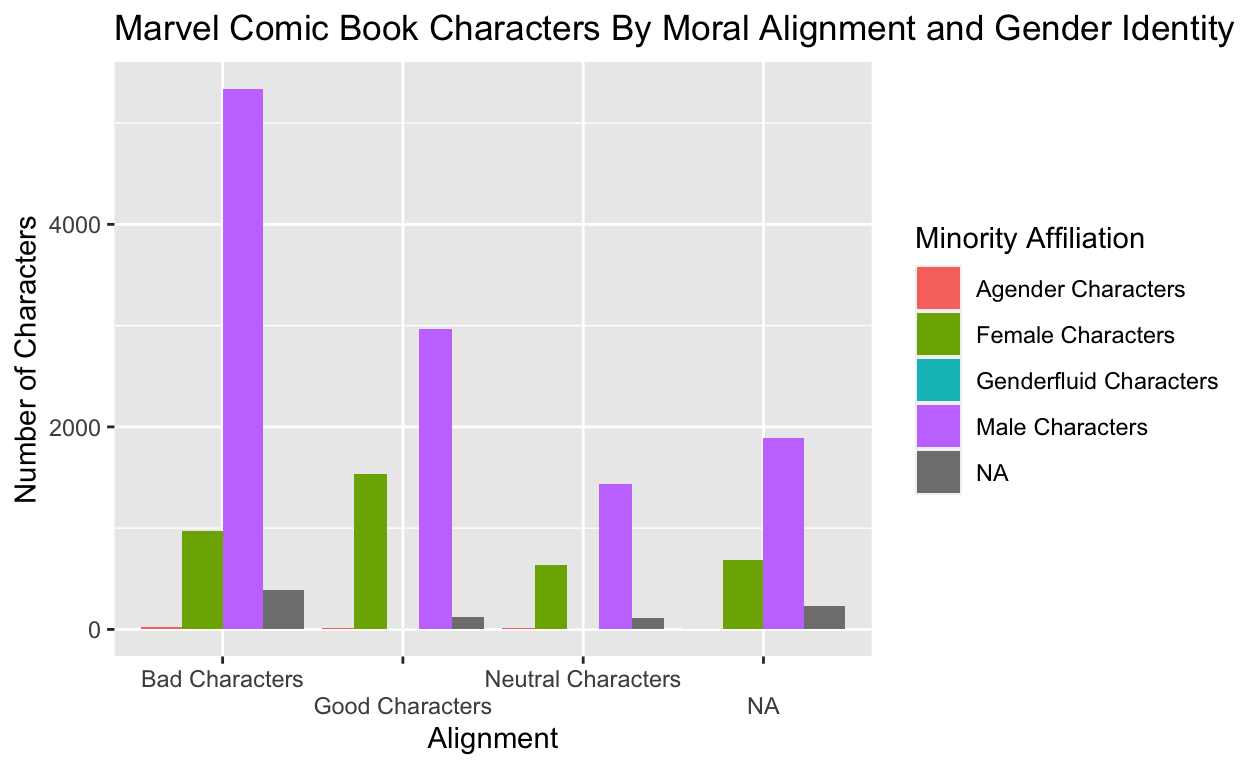
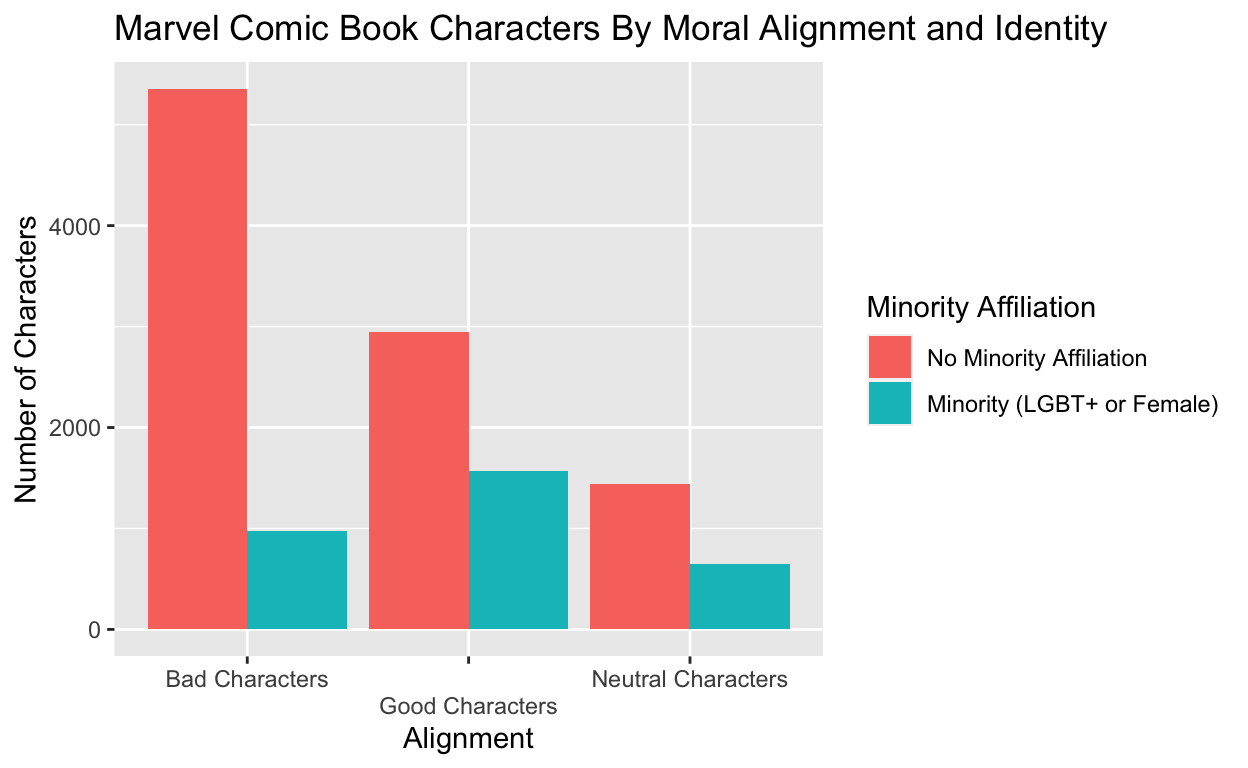
slay

diff --git a/index.html b/index.html
@@ -115,7 +115,7 @@ code span.wa { color: #5e5e5e; font-style: italic; } /* Warning */
   <!--/radix_placeholder_rmarkdown_metadata-->
   
   <script type="text/json" id="radix-resource-manifest">
-  {"type":"character","attributes":{},"value":["data/marvel-wikia-data.csv","index_files/anchor-4.2.2/anchor.min.js","index_files/bowser-1.9.3/bowser.min.js","index_files/distill-2.2.21/template.v2.js","index_files/figure-html5/unnamed-chunk-10-1.png","index_files/figure-html5/unnamed-chunk-11-1.png","index_files/figure-html5/unnamed-chunk-12-1.png","index_files/figure-html5/unnamed-chunk-13-1.png","index_files/figure-html5/unnamed-chunk-2-1.png","index_files/figure-html5/unnamed-chunk-3-1.png","index_files/figure-html5/unnamed-chunk-4-1.png","index_files/figure-html5/unnamed-chunk-5-1.png","index_files/figure-html5/unnamed-chunk-6-1.png","index_files/header-attrs-2.17/header-attrs.js","index_files/header-attrs-2.24/header-attrs.js","index_files/jquery-3.6.0/jquery-3.6.0.js","index_files/jquery-3.6.0/jquery-3.6.0.min.js","index_files/jquery-3.6.0/jquery-3.6.0.min.map","index_files/kePrint-0.0.1/kePrint.js","index_files/lightable-0.0.1/lightable.css","index_files/popper-2.6.0/popper.min.js","index_files/tippy-6.2.7/tippy-bundle.umd.min.js","index_files/tippy-6.2.7/tippy-light-border.css","index_files/tippy-6.2.7/tippy.css","index_files/tippy-6.2.7/tippy.umd.min.js","index_files/webcomponents-2.0.0/webcomponents.js"]}
+  {"type":"character","attributes":{},"value":["data/marvel-wikia-data.csv","index_files/anchor-4.2.2/anchor.min.js","index_files/bowser-1.9.3/bowser.min.js","index_files/distill-2.2.21/template.v2.js","index_files/figure-html5/unnamed-chunk-10-1.png","index_files/figure-html5/unnamed-chunk-11-1.png","index_files/figure-html5/unnamed-chunk-12-1.png","index_files/figure-html5/unnamed-chunk-13-1.png","index_files/figure-html5/unnamed-chunk-14-1.png","index_files/figure-html5/unnamed-chunk-2-1.png","index_files/figure-html5/unnamed-chunk-3-1.png","index_files/figure-html5/unnamed-chunk-4-1.png","index_files/figure-html5/unnamed-chunk-5-1.png","index_files/figure-html5/unnamed-chunk-6-1.png","index_files/header-attrs-2.17/header-attrs.js","index_files/header-attrs-2.24/header-attrs.js","index_files/jquery-3.6.0/jquery-3.6.0.js","index_files/jquery-3.6.0/jquery-3.6.0.min.js","index_files/jquery-3.6.0/jquery-3.6.0.min.map","index_files/kePrint-0.0.1/kePrint.js","index_files/lightable-0.0.1/lightable.css","index_files/popper-2.6.0/popper.min.js","index_files/tippy-6.2.7/tippy-bundle.umd.min.js","index_files/tippy-6.2.7/tippy-light-border.css","index_files/tippy-6.2.7/tippy.css","index_files/tippy-6.2.7/tippy.umd.min.js","index_files/webcomponents-2.0.0/webcomponents.js"]}
   </script>
   <!--radix_placeholder_navigation_in_header-->
   <!--/radix_placeholder_navigation_in_header-->
@@ -1551,6 +1551,23 @@ code span.wa { color: #5e5e5e; font-style: italic; } /* Warning */
 <p>Of these, the identifiers I was most interested in were their gender, identity as a member of the LGBT+ community, and alignment. For this study, gender and LGBT+ identity were the independent variables. I created a binary variable called female_characters to represent whether characters were female (1) or not (0), and an additional binary variable called lgbt_character to represent whether characters were LGBT+ (1) or not (0). Alignment on a scale of 0-2 (bad [0], neutral [1], or good [2]) was the dependent variable, represented by the variable align_value. My research design was cross-sectional, in that I was essentially comparing the moral alignment of LGBT+ and female characters (these were my “treatment” groups”) to the moral alignment of straight/cis and male characters (my “control” groups) based on a single snapshot in time.</p>
 <div class="layout-chunk" data-layout="l-body">
 <div class="sourceCode">
+<pre class="sourceCode r"><code class="sourceCode r"><span><span class='va'>align_graph</span> <span class='op'>&lt;-</span> <span class='va'>data2</span> <span class='op'>|&gt;</span></span>
+<span>  <span class='fu'><a href='https://tidyr.tidyverse.org/reference/drop_na.html'>drop_na</a></span><span class='op'>(</span><span class='va'>ALIGN</span><span class='op'>)</span> <span class='op'>|&gt;</span></span>
+<span>  <span class='fu'><a href='https://dplyr.tidyverse.org/reference/group_by.html'>group_by</a></span><span class='op'>(</span><span class='va'>ALIGN</span><span class='op'>)</span> <span class='op'>|&gt;</span></span>
+<span>  <span class='fu'><a href='https://dplyr.tidyverse.org/reference/summarise.html'>summarize</a></span><span class='op'>(</span>n <span class='op'>=</span> <span class='fu'><a href='https://dplyr.tidyverse.org/reference/context.html'>n</a></span><span class='op'>(</span><span class='op'>)</span><span class='op'>)</span> <span class='op'>|&gt;</span></span>
+<span>  <span class='fu'><a href='https://ggplot2.tidyverse.org/reference/ggplot.html'>ggplot</a></span><span class='op'>(</span>mapping <span class='op'>=</span> <span class='fu'><a href='https://ggplot2.tidyverse.org/reference/aes.html'>aes</a></span><span class='op'>(</span>x <span class='op'>=</span> <span class='va'>ALIGN</span>, y <span class='op'>=</span> <span class='va'>n</span><span class='op'>)</span><span class='op'>)</span> <span class='op'>+</span></span>
+<span>  <span class='fu'><a href='https://ggplot2.tidyverse.org/reference/geom_bar.html'>geom_col</a></span><span class='op'>(</span><span class='fu'><a href='https://ggplot2.tidyverse.org/reference/aes.html'>aes</a></span><span class='op'>(</span>fill <span class='op'>=</span> <span class='va'>ALIGN</span>, position <span class='op'>=</span> <span class='st'>"dodge"</span><span class='op'>)</span><span class='op'>)</span> <span class='op'>+</span></span>
+<span>  <span class='fu'><a href='https://ggplot2.tidyverse.org/reference/labs.html'>labs</a></span><span class='op'>(</span>title <span class='op'>=</span> <span class='st'>"Marvel Comic Book Characters By Moral Alignment"</span>,</span>
+<span>       x <span class='op'>=</span> <span class='st'>"Alignment"</span>,</span>
+<span>       y <span class='op'>=</span> <span class='st'>"Number of Characters"</span><span class='op'>)</span> <span class='op'>+</span></span>
+<span>  <span class='fu'><a href='https://ggplot2.tidyverse.org/reference/scale_colour_discrete.html'>scale_fill_discrete</a></span><span class='op'>(</span>name <span class='op'>=</span> <span class='st'>"Alignment"</span><span class='op'>)</span></span>
+<span></span>
+<span><span class='va'>align_graph</span></span></code></pre>
+</div>
+<p><img src="index_files/figure-html5/unnamed-chunk-2-1.png" width="624" /></p>
+</div>
+<div class="layout-chunk" data-layout="l-body">
+<div class="sourceCode">
 <pre class="sourceCode r"><code class="sourceCode r"><span><span class='va'>data2</span> <span class='op'>&lt;-</span> <span class='va'>data2</span> <span class='op'>|&gt;</span></span>
 <span>  <span class='fu'><a href='https://dplyr.tidyverse.org/reference/mutate.html'>mutate</a></span><span class='op'>(</span>lgbt_character <span class='op'>=</span> <span class='fu'><a href='https://dplyr.tidyverse.org/reference/case_when.html'>case_when</a></span><span class='op'>(</span><span class='va'>GSM</span> <span class='op'>==</span> <span class='st'>"Bisexual Characters"</span> <span class='op'>~</span> <span class='fl'>1</span>,</span>
 <span>                                    <span class='va'>GSM</span> <span class='op'>==</span> <span class='st'>"Homosexual Characters"</span> <span class='op'>~</span> <span class='fl'>1</span>,</span>
@@ -1561,6 +1578,7 @@ code span.wa { color: #5e5e5e; font-style: italic; } /* Warning */
 <span>         minority_character <span class='op'>=</span> <span class='op'>(</span><span class='va'>female_character</span> <span class='op'>==</span> <span class='fl'>1</span> <span class='op'>|</span> <span class='va'>lgbt_character</span> <span class='op'>==</span> <span class='fl'>1</span><span class='op'>)</span><span class='op'>)</span></span>
 <span></span>
 <span><span class='va'>minority_graph</span> <span class='op'>&lt;-</span> <span class='va'>data2</span> <span class='op'>|&gt;</span></span>
+<span>  <span class='fu'><a href='https://tidyr.tidyverse.org/reference/drop_na.html'>drop_na</a></span><span class='op'>(</span><span class='va'>ALIGN</span>, <span class='va'>minority_character</span><span class='op'>)</span> <span class='op'>|&gt;</span></span>
 <span>  <span class='fu'><a href='https://dplyr.tidyverse.org/reference/group_by.html'>group_by</a></span><span class='op'>(</span><span class='va'>ALIGN</span>, <span class='va'>minority_character</span><span class='op'>)</span> <span class='op'>|&gt;</span></span>
 <span>  <span class='fu'><a href='https://dplyr.tidyverse.org/reference/summarise.html'>summarize</a></span><span class='op'>(</span>n <span class='op'>=</span> <span class='fu'><a href='https://dplyr.tidyverse.org/reference/context.html'>n</a></span><span class='op'>(</span><span class='op'>)</span><span class='op'>)</span> <span class='op'>|&gt;</span></span>
 <span>  <span class='fu'><a href='https://ggplot2.tidyverse.org/reference/ggplot.html'>ggplot</a></span><span class='op'>(</span>mapping <span class='op'>=</span> <span class='fu'><a href='https://ggplot2.tidyverse.org/reference/aes.html'>aes</a></span><span class='op'>(</span>x <span class='op'>=</span> <span class='va'>ALIGN</span>, y <span class='op'>=</span> <span class='va'>n</span><span class='op'>)</span><span class='op'>)</span> <span class='op'>+</span></span>
@@ -1574,11 +1592,12 @@ code span.wa { color: #5e5e5e; font-style: italic; } /* Warning */
 <span></span>
 <span><span class='va'>minority_graph</span></span></code></pre>
 </div>
-<p><img src="index_files/figure-html5/unnamed-chunk-2-1.png" width="624" /></p>
+<p><img src="index_files/figure-html5/unnamed-chunk-3-1.png" width="624" /></p>
 </div>
 <div class="layout-chunk" data-layout="l-body">
 <div class="sourceCode">
 <pre class="sourceCode r"><code class="sourceCode r"><span><span class='va'>female_graph</span> <span class='op'>&lt;-</span> <span class='va'>data2</span> <span class='op'>|&gt;</span></span>
+<span>  <span class='fu'><a href='https://tidyr.tidyverse.org/reference/drop_na.html'>drop_na</a></span><span class='op'>(</span><span class='va'>ALIGN</span>, <span class='va'>female_character</span><span class='op'>)</span> <span class='op'>|&gt;</span></span>
 <span>  <span class='fu'><a href='https://dplyr.tidyverse.org/reference/group_by.html'>group_by</a></span><span class='op'>(</span><span class='va'>ALIGN</span>, <span class='va'>SEX</span><span class='op'>)</span> <span class='op'>|&gt;</span></span>
 <span>  <span class='fu'><a href='https://dplyr.tidyverse.org/reference/summarise.html'>summarize</a></span><span class='op'>(</span>n <span class='op'>=</span> <span class='fu'><a href='https://dplyr.tidyverse.org/reference/context.html'>n</a></span><span class='op'>(</span><span class='op'>)</span><span class='op'>)</span> <span class='op'>|&gt;</span></span>
 <span>  <span class='fu'><a href='https://ggplot2.tidyverse.org/reference/ggplot.html'>ggplot</a></span><span class='op'>(</span>mapping <span class='op'>=</span> <span class='fu'><a href='https://ggplot2.tidyverse.org/reference/aes.html'>aes</a></span><span class='op'>(</span>x <span class='op'>=</span> <span class='va'>ALIGN</span>, y <span class='op'>=</span> <span class='va'>n</span><span class='op'>)</span><span class='op'>)</span> <span class='op'>+</span></span>
@@ -1591,7 +1610,7 @@ code span.wa { color: #5e5e5e; font-style: italic; } /* Warning */
 <span></span>
 <span><span class='va'>female_graph</span></span></code></pre>
 </div>
-<p><img src="index_files/figure-html5/unnamed-chunk-3-1.png" width="624" /></p>
+<p><img src="index_files/figure-html5/unnamed-chunk-4-1.png" width="624" /></p>
 </div>
 <div class="layout-chunk" data-layout="l-body">
 <div class="sourceCode">
@@ -1609,9 +1628,9 @@ code span.wa { color: #5e5e5e; font-style: italic; } /* Warning */
 <span></span>
 <span><span class='va'>lgbt_graph</span></span></code></pre>
 </div>
-<p><img src="index_files/figure-html5/unnamed-chunk-4-1.png" width="624" /></p>
+<p><img src="index_files/figure-html5/unnamed-chunk-5-1.png" width="624" /></p>
 </div>
-<p>My dependent variable in this case was moral alignment. I created the above tables to visualize how many characters fell into each alignment category. As the graphs show, female characters are most commonly portrayed as good characters, as was initially predicted. Men, in comparison, are most often portrayed as villains, but they are over-represented in every alignment category. For instance, although female characters are portrayed as good more often than bad and male characters are bad more often than good, there are nonetheless more good male characters than good female characters.</p>
+<p>My dependent variable in this case was moral alignment. I created the above tables to visualize first how many characters fell into each alignment category, and then what this breakdown looked like based on gender and LGBT+ identity. As the first graph shows, “bad characters” were the most common type, which makes sense- the same hero often defeats dozens of villains. However, female characters are most commonly portrayed as good characters, as was initially predicted. Men, in comparison, are most often portrayed as villains, but they are over-represented in every alignment category. For instance, although female characters are portrayed as good more often than bad and male characters are bad more often than good, there are nonetheless more good male characters than good female characters.</p>
 <p>A similar trend can be observed across minority versus majority characters in general, probably because the minority category is mostly comprised of female characters and majority by male characters. Still, even when you combine LGBT+ characters and female characters, the collective group is significantly underrepresented compared to straight cis male characters.</p>
 <p>The final graph examines only the representation of the LGBT+ community, rather than in comparison to straight cis characters, because LGBT+ characters were so grossly underrepresented that when visualized directly alongside non-LGBT+ characters, they were essentially negligible. Within the LGBT+ community, characters across all identities most often appeared as good characters, which contradicted my initial prediction. This differential was so exacerbated that it implied most identities were either good characters, or simply did not appear at all. Out of over 16,000 characters, less than 10 of any identity within the LGBT+ community were “bad characters” and less than 20 were “neutral.” Around 60 were “good.”</p>
 <h2 id="results">Results</h2>
@@ -2030,7 +2049,7 @@ R2 Adj.
 <span>       title <span class='op'>=</span> <span class='st'>"Relationship Between LGBT+ Identity and Moral Alignment in Marvel Comics"</span><span class='op'>)</span>  <span class='op'>+</span></span>
 <span>  <span class='fu'><a href='https://ggplot2.tidyverse.org/reference/geom_smooth.html'>geom_smooth</a></span><span class='op'>(</span>method <span class='op'>=</span> <span class='st'>"lm"</span>, se <span class='op'>=</span> <span class='cn'>FALSE</span>, color <span class='op'>=</span> <span class='st'>"deeppink3"</span>, size <span class='op'>=</span> <span class='fl'>1.5</span><span class='op'>)</span></span></code></pre>
 </div>
-<p><img src="index_files/figure-html5/unnamed-chunk-10-1.png" width="624" /></p>
+<p><img src="index_files/figure-html5/unnamed-chunk-11-1.png" width="624" /></p>
 </div>
 <div class="layout-chunk" data-layout="l-body">
 <div class="sourceCode">
@@ -2042,7 +2061,7 @@ R2 Adj.
 <span>       title <span class='op'>=</span> <span class='st'>"Relationship Between Gender Identity and Moral Alignment in Marvel Comics"</span><span class='op'>)</span> <span class='op'>+</span></span>
 <span>  <span class='fu'><a href='https://ggplot2.tidyverse.org/reference/geom_smooth.html'>geom_smooth</a></span><span class='op'>(</span>method <span class='op'>=</span> <span class='st'>"lm"</span>, se <span class='op'>=</span> <span class='cn'>FALSE</span>, color <span class='op'>=</span> <span class='st'>"darkslateblue"</span>, size <span class='op'>=</span> <span class='fl'>1.5</span><span class='op'>)</span></span></code></pre>
 </div>
-<p><img src="index_files/figure-html5/unnamed-chunk-11-1.png" width="624" /></p>
+<p><img src="index_files/figure-html5/unnamed-chunk-12-1.png" width="624" /></p>
 </div>
 <h2 id="conclusion">Conclusion</h2>
 <p>In general, my results suggested a positive treatment effect and correlation between belonging to an identity group that is underrepresented in comics and moral alignment. Women and LGBT+ characters were found to more often be portrayed as heroes rather than villains. This supports the hypothesis that female characters would be portrayed in a more positive light on average, but does not support the hypothesis that LGBT+ characters would more often be portrayed as villains. In hindsight, this makes sense: I believed homophobia would have led LGBT+ characters to be portrayed more negatively in Marvel’s early years, but it seems more likely that social stigma would have probably erased LGBT+ characters entirely. When I graphed the appearances of LGBT+ characters over time, this proved true: LGBT+ characters really only began to appear in significant numbers in the 2000s, when homophobia was less prevalent.</p>
@@ -2060,7 +2079,7 @@ R2 Adj.
 <span></span>
 <span><span class='va'>lgbt_graph_year</span></span></code></pre>
 </div>
-<p><img src="index_files/figure-html5/unnamed-chunk-12-1.png" width="624" /></p>
+<p><img src="index_files/figure-html5/unnamed-chunk-13-1.png" width="624" /></p>
 </div>
 <div class="layout-chunk" data-layout="l-body">
 <div class="sourceCode">
@@ -2076,11 +2095,11 @@ R2 Adj.
 <span></span>
 <span><span class='va'>female_graph_year</span></span></code></pre>
 </div>
-<p><img src="index_files/figure-html5/unnamed-chunk-13-1.png" width="624" /></p>
+<p><img src="index_files/figure-html5/unnamed-chunk-14-1.png" width="624" /></p>
 </div>
 <p>Additionally, most Marvel characters in the LGBT+ community were gay or bisexual. For readers to become aware of this aspect of a character’s identity, it means the character was probably involved in a romantic plot or subplot, and such plots are usually reserved for heroes, rather than villains. I would be interested in doing further research into how romance affects the moral alignment of both LGBT+ characters and women, as many of the earliest Marvel women were probably just romantic interests for the heroes, automatically suggesting they were neutral or good characters. I would also be interested in looking at the way race affected whether characters were portrayed as heroes or villains. Unfortunately, this information was not available in this data set and I struggled to find it elsewhere. If I had more time, I would manually enter data regarding race and romantic status so that these potential confounding factors could be explored at more length.</p>
 <p>Overall, I struggled with the fact that identity is not as explicit in the Marvel world as it is in our real world. Especially among villains, there are characters of various “alien” or “monster” types that can’t obviously be categorized as a certain gender identity. For this reason, I wasn’t really able to explore the effect of being non-binary on alignment— I assumed the vast majority of characters categorized this way were assigned this label because they were not actually human (thus, were much more likely to be villains).</p>
-<p>In conclusion, I found it intriguing that female and LGBT+ characters were in general portrayed as the hero much more often than the villain. Although this seems like a good thing in terms of social repercussions, it’s important to note that across the board, there were more straight, cis men represented in every category. Perhaps the most striking conclusion from my research, even more than alignment, is how grossly underrepresented women and LGBT+ characters are in Marvel comics. And, as my research proved, even when they are represented they are almost always reduced to just one role, that of the hero. This lack of representation for LGBT+ and female characters across the board reinforces the need for more female and LGBT+ characters of all alignments: good, neutral, and bad.</p>
+<p>In conclusion, I found it intriguing that female and LGBT+ characters were in general portrayed as the hero much more often than the villain. Although this seems like a good thing in terms of social repercussions, it’s important to note that across the board, there were more straight, cis men represented in every category. Perhaps the most striking conclusion from my research, even more than alignment, is how grossly underrepresented women and LGBT+ characters are in Marvel comics. And, as my research proved, even when they are represented they are almost always reduced to just one role, that of the hero. This is particularly interesting since overall, villains are the most common type of character. This lack of representation for LGBT+ and female characters across the board reinforces the need for more female and LGBT+ characters of all alignments: good, neutral, and bad.</p>
 <div class="sourceCode" id="cb7"><pre class="sourceCode r distill-force-highlighting-css"><code class="sourceCode r"></code></pre></div>
 <!--radix_placeholder_article_footer-->
 <!--/radix_placeholder_article_footer-->
